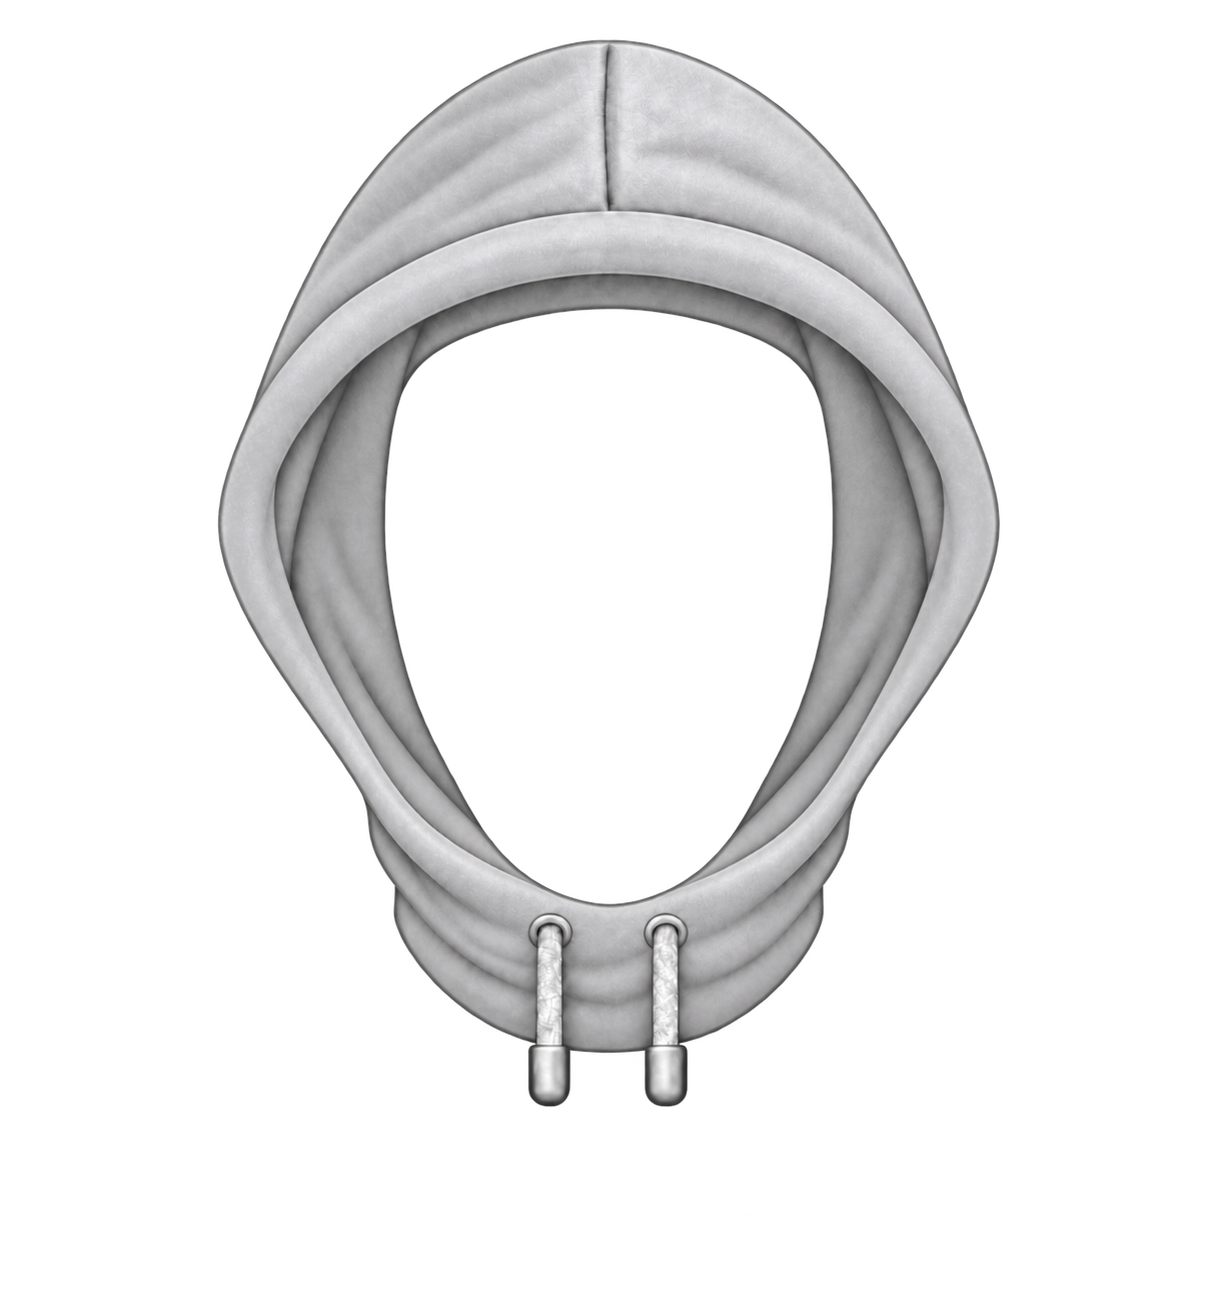
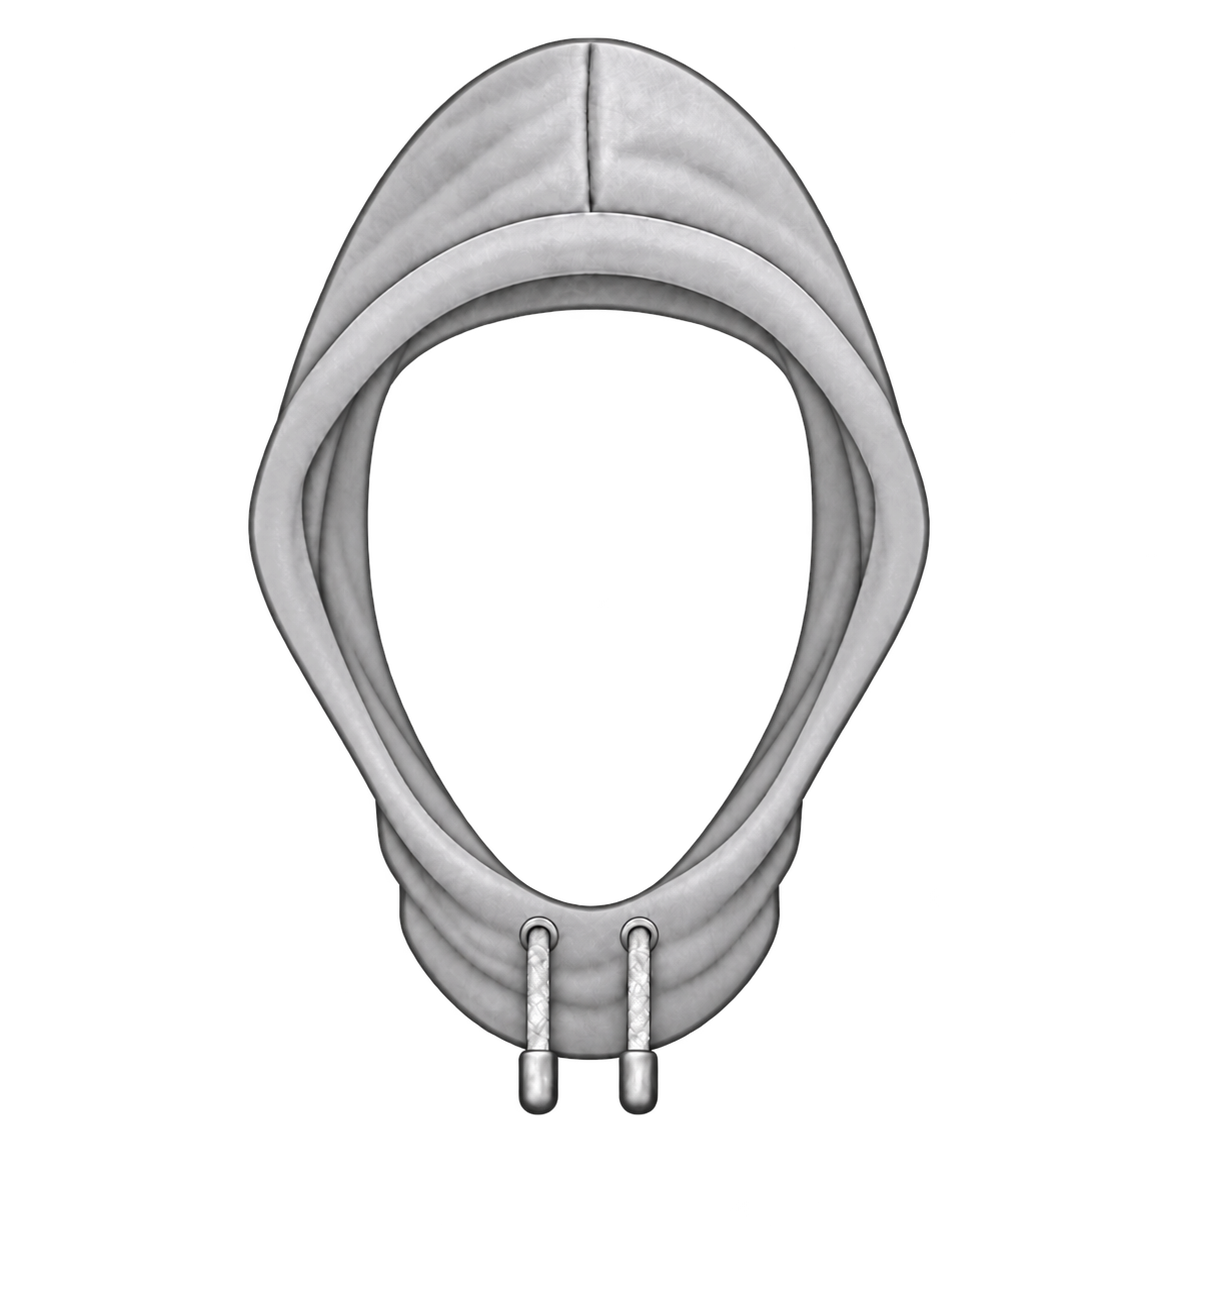
wip

Changed region(s): [[0.1561, 0.031, 0.8431, 0.8669], [0.4059, 0.2167, 0.4684, 0.2477]]

diff --git a/Sources/Avatar/EditAvatarView.swift b/Sources/Avatar/EditAvatarView.swift
@@ -231,11 +231,12 @@ public class EditAvatarView : UIView {
             insertSubview(additionImgView, aboveSubview: bodyImgView)
         case .Hairband, .Crown, .KungFuHeadband:
             insertSubview(additionImgView, aboveSubview: hairView)
-        case .Bandana:
+        case .Bandana, .Hood:
+            // Facial hair lies over the fabric at the jaw and neck.
             insertSubview(additionImgView, belowSubview: facialHairImgView)
         case .GoldChain, .GoldEarring, .DiamondEarrings, .BowTie, .Tie, .Scarf, .DiceChain, .GoldMedal, .SilverBlackNecklace:
             insertSubview(additionImgView, belowSubview: hairView)
-        case .AddHearts, .Headphones, .CheekBandage, .EyebrowScar, .EyebrowPiercing, .Hood:
+        case .AddHearts, .Headphones, .CheekBandage, .EyebrowScar, .EyebrowPiercing:
             insertSubview(additionImgView, aboveSubview: glassesView)
         }
     }

diff --git a/Docs/hood-artwork.md b/Docs/hood-artwork.md
@@ -6,6 +6,8 @@ Both editors expose it through their existing list of accessories and palette.
 
 The hood's middle and lower sections are approximately 25% narrower than the
 previous fit. The fabric is exported at 150 x 234 points, centered horizontally.
+The inner face opening is approximately 10% larger, with thinner side lining;
+the outer dimensions and placement are retained.
 Both fabric and face shadow use the base vertical placement, raised by 14 points
 (5% of the 280-point avatar canvas) from the previous fit. The transparent face
 opening ends near y196, and the narrow collar
@@ -14,7 +16,8 @@ close to the neck. The grayscale fabric receives the selected accessory color.
 A separate black alpha gradient casts a soft shadow
 across the forehead without coloring the skin. Both layers follow body width.
 Hair and headwear are hidden only while Hood is selected; the saved hair choice
-is preserved. The hood is drawn above the face, beard and glasses.
+is preserved. The hood is drawn immediately before facial hair, so the beard
+overlays its fabric. The nose and glasses retain their normal foreground order.
 
 The original Hoodie assets are unchanged. Only the Hood + Hoodie combination
 uses a separate plain sweatshirt torso to avoid doubled collars and cords.
@@ -40,9 +43,34 @@ existing `Clothing/Hoodie.imageset/Hoodie.png` as the edit/style reference.
 Only export framing and resizing are applied to the retained masters.
 The hood was then revised with the same tool to narrow and lower the collar.
 That revision used the exported hood as the edit target and the three-avatar
-preview as a fit reference. The latest artwork narrows the middle and lower
-sections. Both hood layers now use the base vertical placement; the conditional
-torso is unchanged.
+preview as a fit reference. After narrowing the middle and lower sections, the
+latest artwork widens only the face opening. Both hood layers retain the base
+vertical placement; the conditional torso and shadow are unchanged.
+
+### Wider face opening
+
+The built-in imagegen tool edited the previous exported hood, then made a small
+inner-edge correction. The 3x export has an 11.4% larger transparent face-opening
+area; its outer contour differs by at most one logical point across y25...220.
+The export rectangle, shadow, collar placement and beard layering are retained.
+
+#### Edit 1
+
+```text
+Use case: precise-object-edit.
+EDIT TARGET: the attached grayscale hood accessory with transparent background and transparent face opening.
+Make ONE very small change: widen ONLY the empty inner face opening by 10% HORIZONTALLY, centered on the same vertical centerline. Its width should be 1.10 times its current width at each height. This requires moving only the inner left edge a little left and the inner right edge a little right, thinning the inside lining slightly. Keep the opening's top and bottom at the EXACT SAME vertical positions; do not make it taller or shift it. Preserve its smooth rounded shape.
+The outer hood is already approved: LOCK the entire outer silhouette, size, top dome, seam, outside folds, neck collar, eyelets, strings, vertical placement, lighting and texture. Do not redraw, enlarge, shrink, move, narrow or reshape the outer hood. Keep every unaffected area identical to the reference. No overall rescaling or recentering. Modify ONLY a thin strip of inner lining along the transparent hole's left and right sides to make the hole 10% wider. Blend the new antialiased inner edges naturally into the existing fabric.
+The input is 792x840 pixels with hood centered at x396. Move the INNER boundary with x_new = 396 + 1.10*(x_old-396); keep y unchanged. Do not apply this transform to the outer contour or any other part. Preserve the full original canvas and margins. Output only the edited hood with real transparent alpha inside and outside, neutral grayscale suitable for tinting. No face, head, skin, mannequin, body, shirt, background, text, logos or new elements.
+```
+
+#### Edit 2
+
+```text
+Use case: precise-object-edit. EDIT TARGET: the attached transparent grayscale hood sprite. This is a tiny calibration of the inner hole only.
+Reduce ONLY the WIDTH of its transparent FACE OPENING by THREE PERCENT (multiply its current width by 0.97), symmetrically around the centerline. This is a barely perceptible adjustment, around 1-2 pixels on each side at avatar size. Move only the inner fabric edges slightly inward with soft antialiasing. Keep the opening's height and its top and bottom positions EXACTLY unchanged.
+LOCK the existing OUTER silhouette, hood size, every exterior fold and texture, upper dome, center seam, collar, eyelets and cords. Do not alter the outer boundary or resize/reposition/crop the hood. Keep all unaffected pixels as close as possible to the reference. No redesign. Same grayscale cotton and lighting. Same full transparent canvas and margins. Output the single edited hood only, with actual transparency outside it and inside the face opening. No person, face, head, skin, body, background, text or new objects.
+```
 
 ### Narrower fit and vertical placement
 
